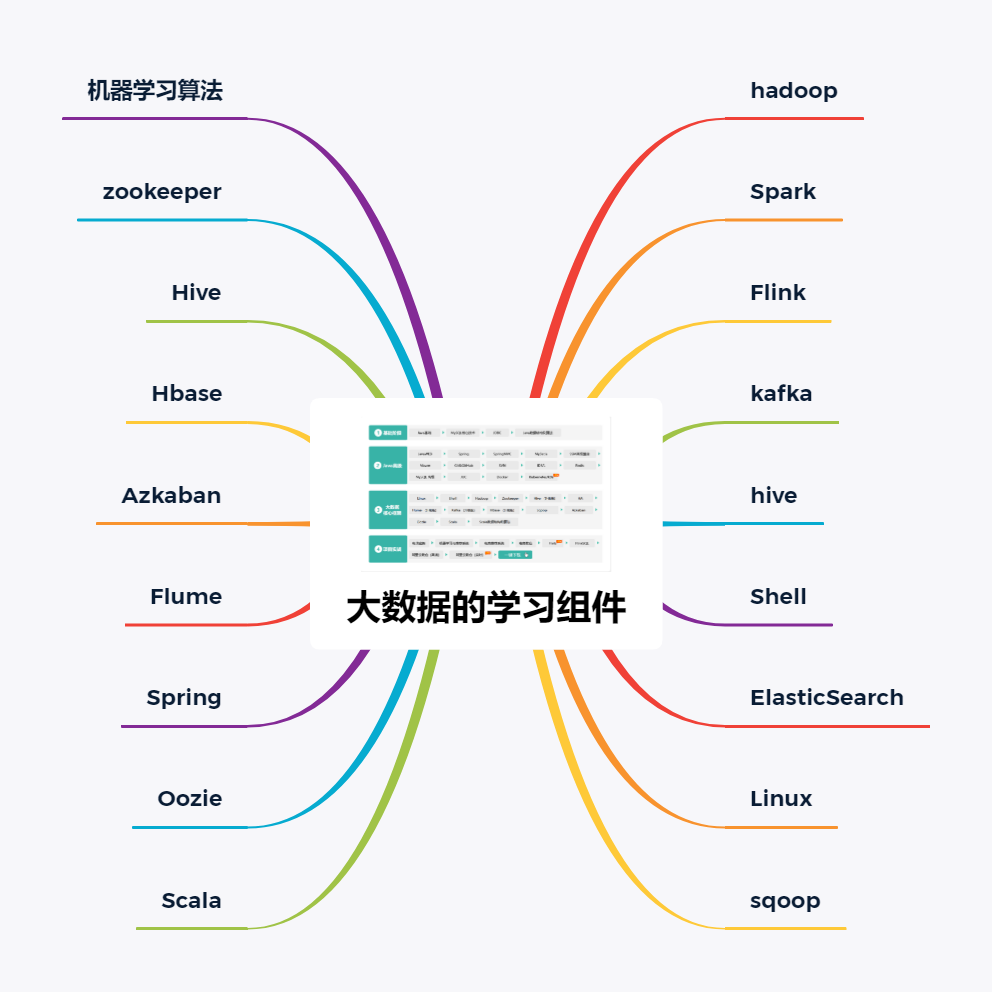
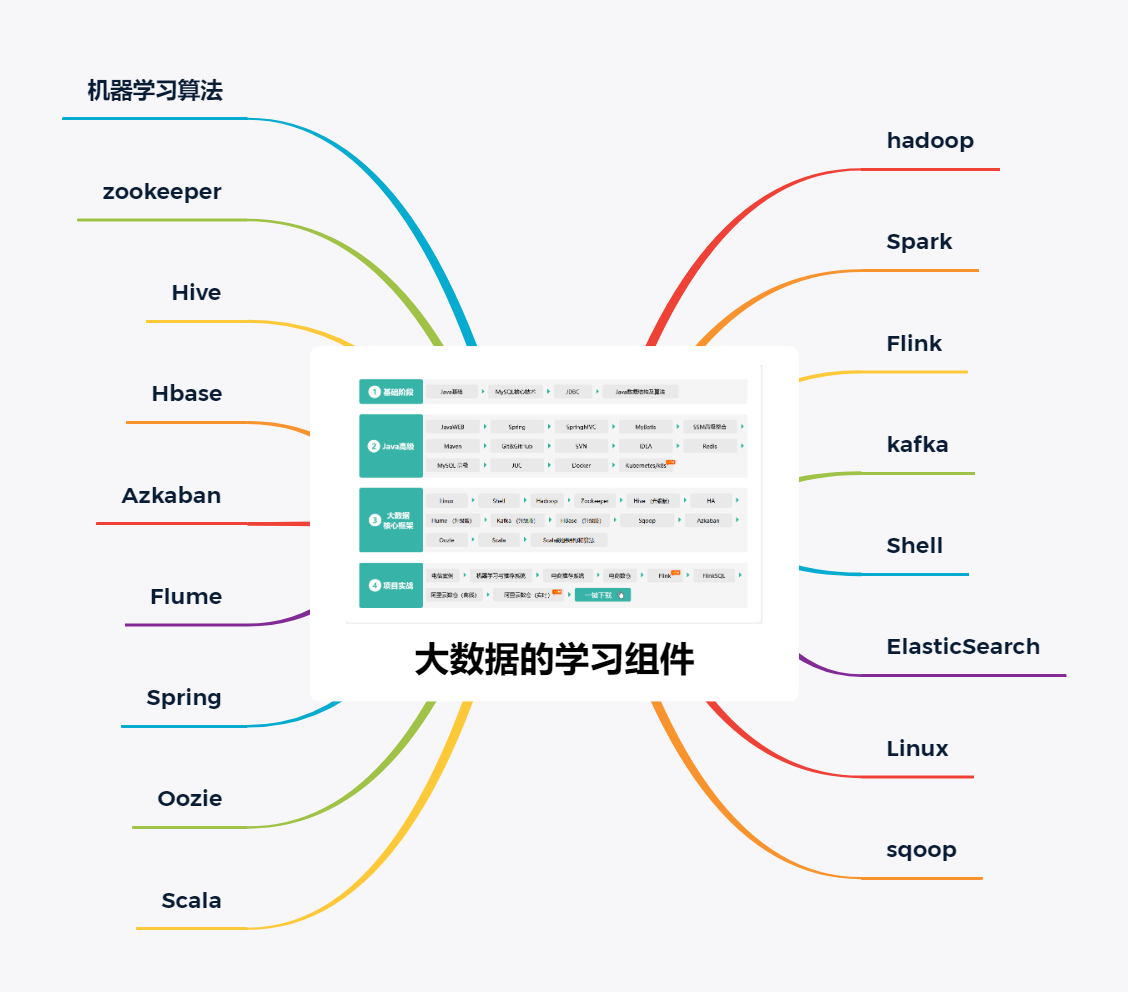
大数据仓库的目录更新

diff --git a/README.md b/README.md
@@ -1,5 +1,30 @@
 # 庄小焱的大数据仓库
 这是个人的大数据仓库，本人将根据以下技术栈路线图不断更新仓库，同时欢迎大家一起建设这个仓库。
-![img](/pictures/clipboard166.png)
+![img](./picture/大数据的学习技术路线图.png)
+#仓库的基础知识
+##Scala数据结构与算法
+##zookeeper
+##Hive
+##HBase
+##Azkaban
+##Flume
+##Oozie
+##Hadoop
+##Spack
+##Flink
+##kafka
+##Shell
+##ElasticSearch
+##Linux
+##Sqop
+#仓库的实战项目
+##基于hadoop的离线功能实现
+##基于hadoop的离线电信系统
+##基于hadoop的日志统计系统
+##基于SparkStreaming实时电影推荐系统
+
+##基于Hadoop离线和SparkStreaming实时电商统计系统
+
+
     
     
